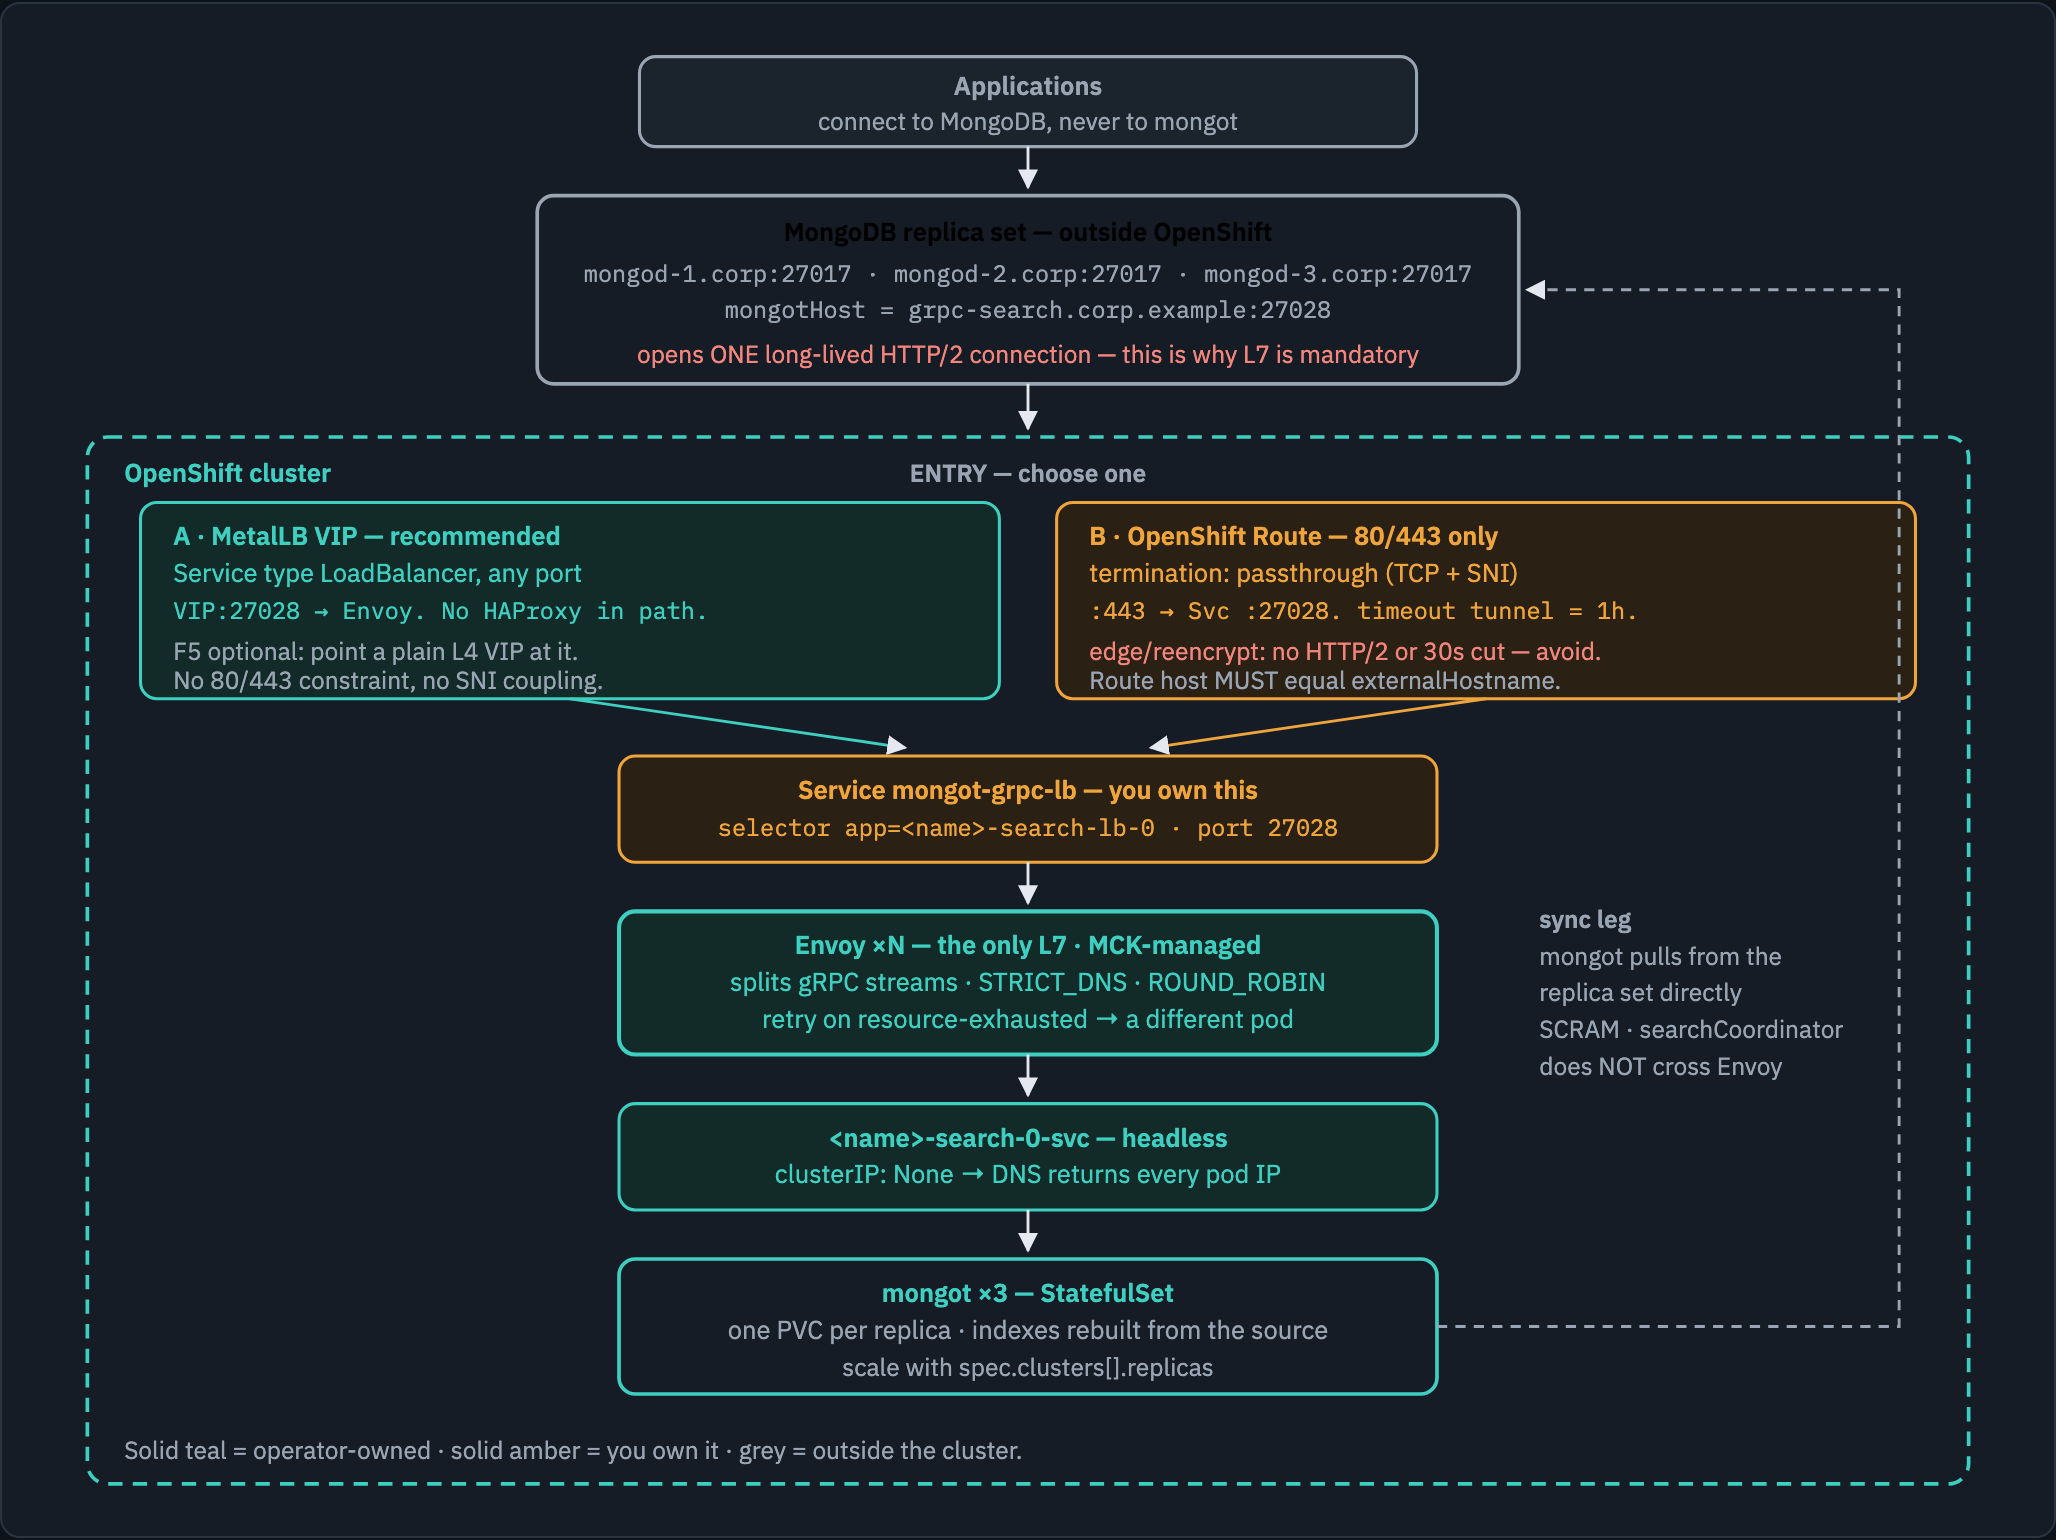
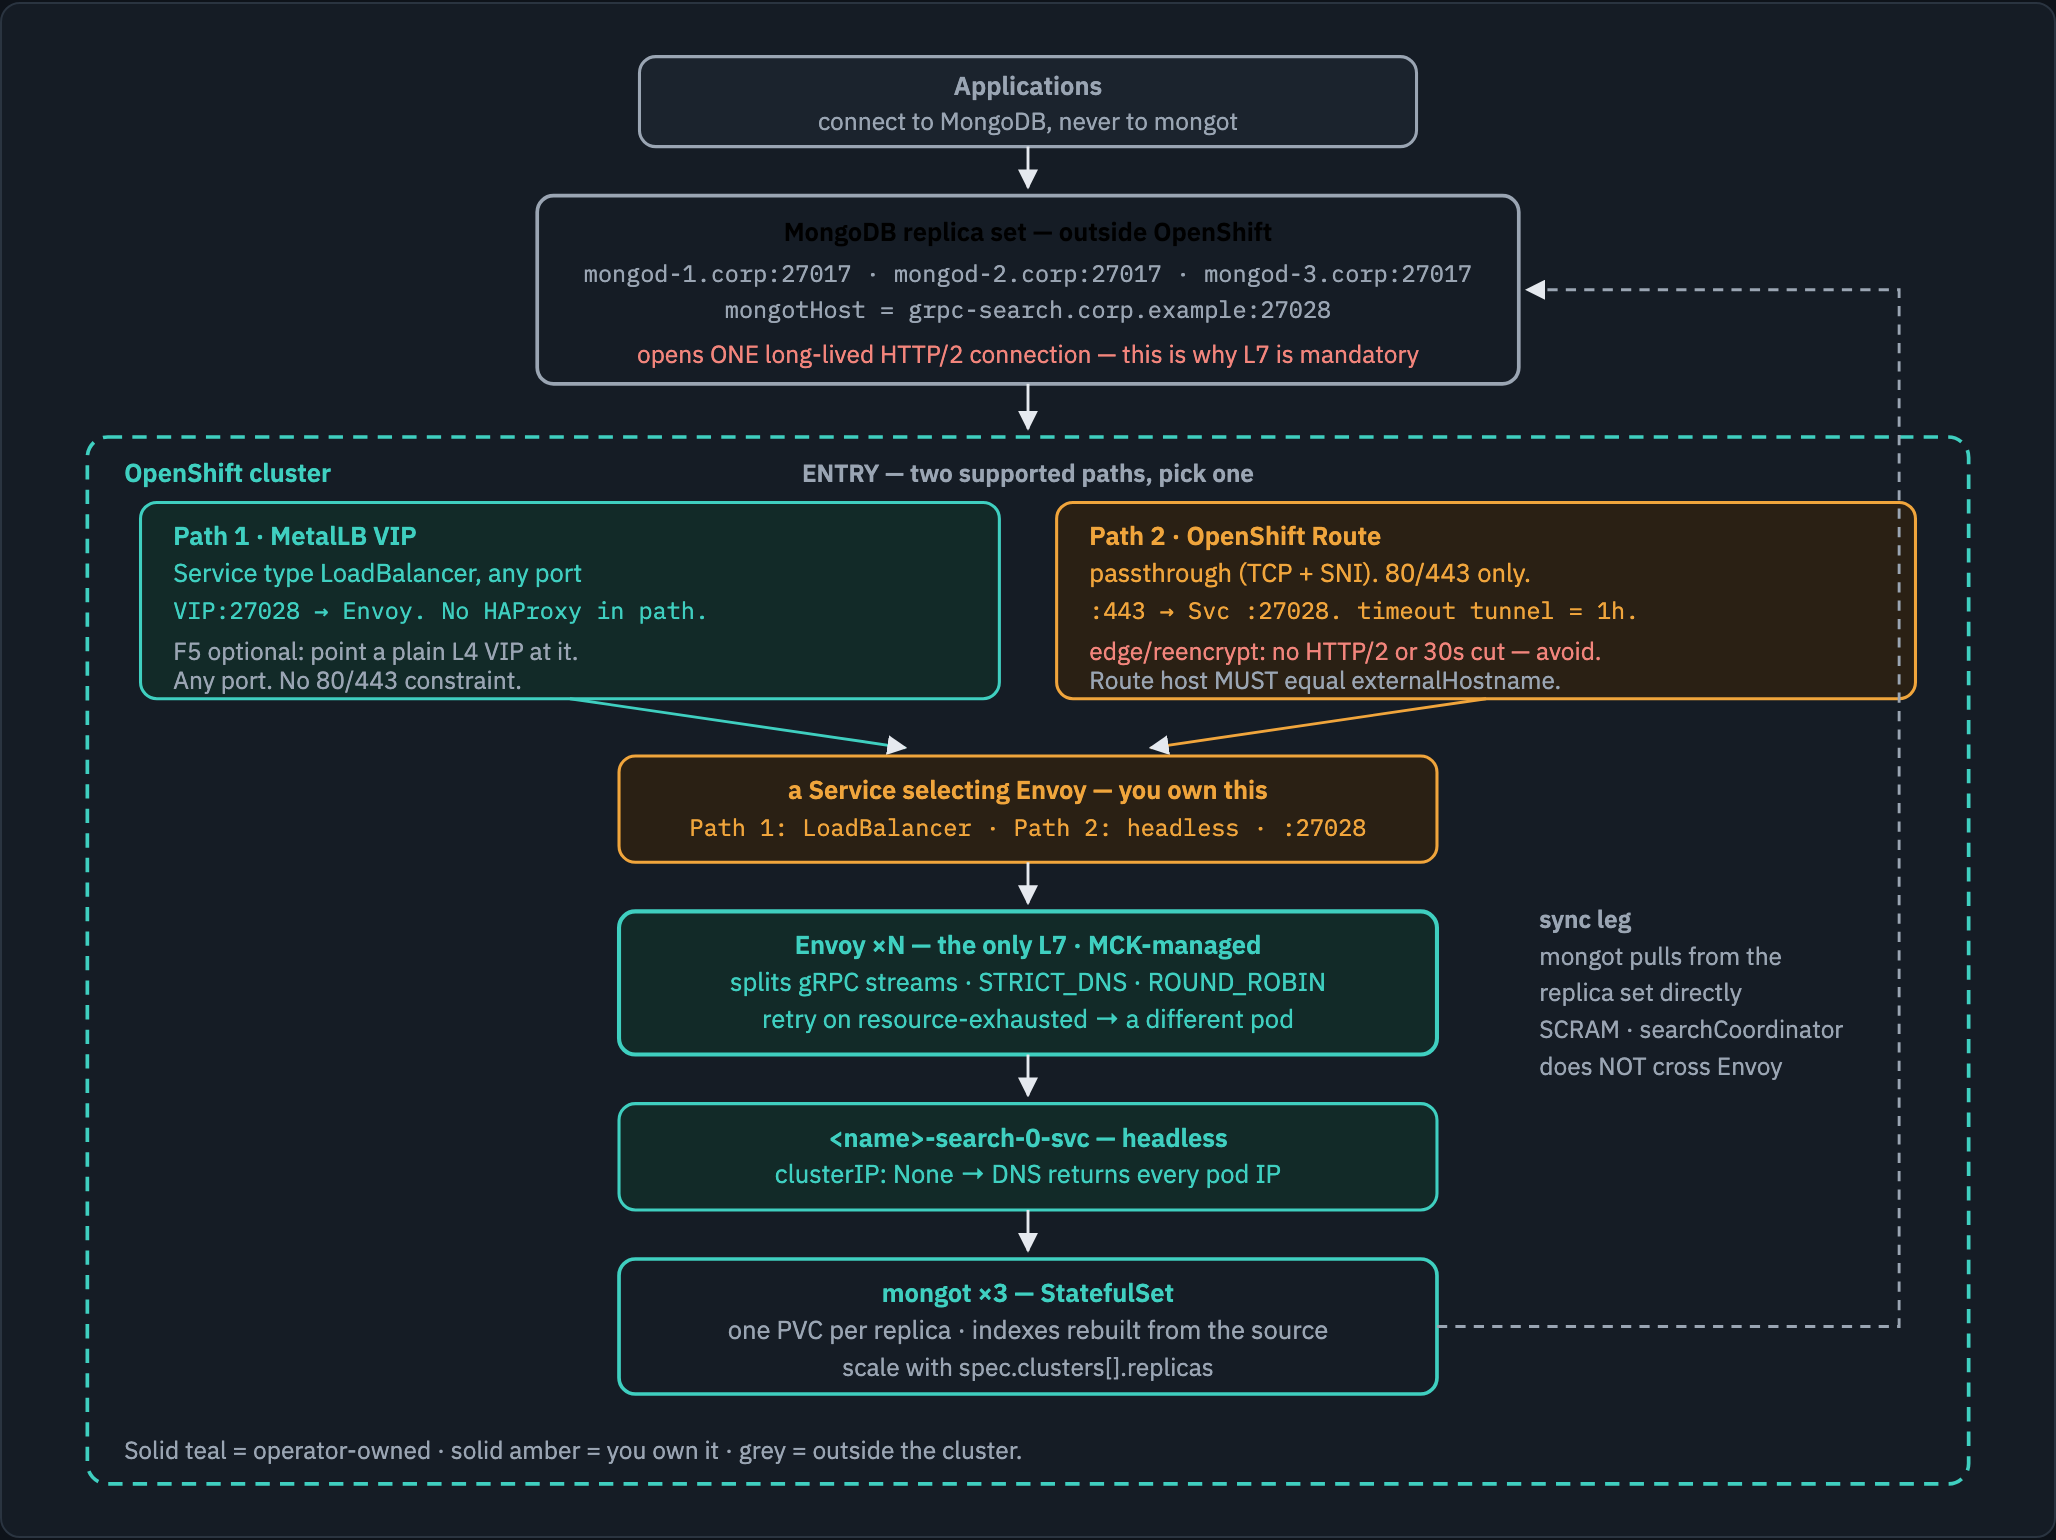
Present both entry paths as equally supported in the architecture figure
The figure labelled the MetalLB VIP "A · MetalLB VIP — recommended" and the
Route "B · OpenShift Route — 80/443 only", which reads as one supported option
and one caveat. Both are supported; the choice depends on what the environment
already has. Wording only - no shapes, arrows or colours changed.

  ENTRY — choose one              ->  ENTRY — two supported paths, pick one
  A · MetalLB VIP — recommended   ->  Path 1 · MetalLB VIP
  B · OpenShift Route — 80/443 only -> Path 2 · OpenShift Route

The 80/443 constraint is still stated, just as a property of Path 2 rather than
part of its name, and the same for the VIP's freedom from it. README's
comparison table follows the same Path 1 / Path 2 labels.

One factual fix came out of re-reading the figure: both paths fed a box reading
"Service mongot-grpc-lb — you own this", which stopped being true when the Route
moved to mongot-search-lb. It now reads "a Service selecting Envoy — you own
this / Path 1: LoadBalancer · Path 2: headless · :27028", which is true for
both without naming one.

Re-rendered and read back; only the architecture PNGs changed.

diff --git a/docs/diagrams/mongot-openshift/source.html b/docs/diagrams/mongot-openshift/source.html
@@ -438,17 +438,17 @@ a { color: var(--remote); }
             <rect x="30" y="200" width="920" height="512" rx="10" fill="none" stroke="var(--remote)" stroke-width="1.8" stroke-dasharray="7 5"/>
             <text x="48" y="222" font-weight="600" fill="var(--remote)">OpenShift cluster</text>
 
-            <text x="490" y="222" text-anchor="middle" font-size="12" font-weight="600" fill="var(--muted)">ENTRY &#8212; choose one</text>
+            <text x="490" y="222" text-anchor="middle" font-size="12" font-weight="600" fill="var(--muted)">ENTRY &#8212; two supported paths, pick one</text>
             <rect x="56" y="232" width="420" height="96" rx="8" fill="var(--remote-wash)" stroke="var(--remote)" stroke-width="1.5"/>
-            <text x="72" y="253" font-weight="600" fill="var(--remote)">A · MetalLB VIP &#8212; recommended</text>
+            <text x="72" y="253" font-weight="600" fill="var(--remote)">Path 1 · MetalLB VIP</text>
             <text x="72" y="271" fill="var(--remote)">Service type LoadBalancer, any port</text>
             <text x="72" y="289" font-family="IBM Plex Mono, monospace" font-size="11.5" fill="var(--remote)">VIP:27028 → Envoy. No HAProxy in path.</text>
             <text x="72" y="309" font-size="12" fill="var(--muted)">F5 optional: point a plain L4 VIP at it.</text>
-            <text x="72" y="323" font-size="12" fill="var(--muted)">No 80/443 constraint, no SNI coupling.</text>
+            <text x="72" y="323" font-size="12" fill="var(--muted)">Any port. No 80/443 constraint.</text>
 
             <rect x="504" y="232" width="420" height="96" rx="8" fill="var(--host-wash)" stroke="var(--host)" stroke-width="1.5"/>
-            <text x="520" y="253" font-weight="600" fill="var(--host)">B · OpenShift Route &#8212; 80/443 only</text>
-            <text x="520" y="271" fill="var(--host)">termination: passthrough (TCP + SNI)</text>
+            <text x="520" y="253" font-weight="600" fill="var(--host)">Path 2 · OpenShift Route</text>
+            <text x="520" y="271" fill="var(--host)">passthrough (TCP + SNI). 80/443 only.</text>
             <text x="520" y="289" font-family="IBM Plex Mono, monospace" font-size="11.5" fill="var(--host)">:443 → Svc :27028. timeout tunnel = 1h.</text>
             <text x="520" y="309" font-size="12" fill="var(--gap)">edge/reencrypt: no HTTP/2 or 30s cut — avoid.</text>
             <text x="520" y="323" font-size="12" fill="var(--muted)">Route host MUST equal externalHostname.</text>
@@ -457,8 +457,8 @@ a { color: var(--remote); }
             <line x1="714" y1="328" x2="550" y2="352" stroke="var(--host)" stroke-width="1.4" marker-end="url(#ah5)"/>
 
             <rect x="290" y="356" width="400" height="52" rx="8" fill="var(--host-wash)" stroke="var(--host)" stroke-width="1.5"/>
-            <text x="490" y="377" text-anchor="middle" font-weight="600" fill="var(--host)">Service mongot-grpc-lb &#8212; you own this</text>
-            <text x="490" y="395" text-anchor="middle" font-family="IBM Plex Mono, monospace" font-size="11.5" fill="var(--host)">selector app=&lt;name&gt;-search-lb-0 · port 27028</text>
+            <text x="490" y="377" text-anchor="middle" font-weight="600" fill="var(--host)">a Service selecting Envoy &#8212; you own this</text>
+            <text x="490" y="395" text-anchor="middle" font-family="IBM Plex Mono, monospace" font-size="11.5" fill="var(--host)">Path 1: LoadBalancer · Path 2: headless · :27028</text>
             <line x1="490" y1="408" x2="490" y2="428" stroke="currentColor" stroke-width="1.4" marker-end="url(#ah5)"/>
 
             <rect x="290" y="432" width="400" height="70" rx="8" fill="var(--remote-wash)" stroke="var(--remote)" stroke-width="2"/>

diff --git a/README.md b/README.md
@@ -437,7 +437,7 @@ Plus a user holding the built-in **`searchCoordinator`** role (MongoDB 8.2+).
 
 ## Entry point: VIP or Route
 
-|  | **A · MetalLB VIP** | **B · OpenShift Route** |
+|  | **Path 1 · MetalLB VIP** | **Path 2 · OpenShift Route** |
 |---|---|---|
 | Ports | **any** — the Service maps `port`→`targetPort` | **80/443 only** |
 | Data path | client → VIP → Envoy | client → router (HAProxy) → Svc → Envoy |
